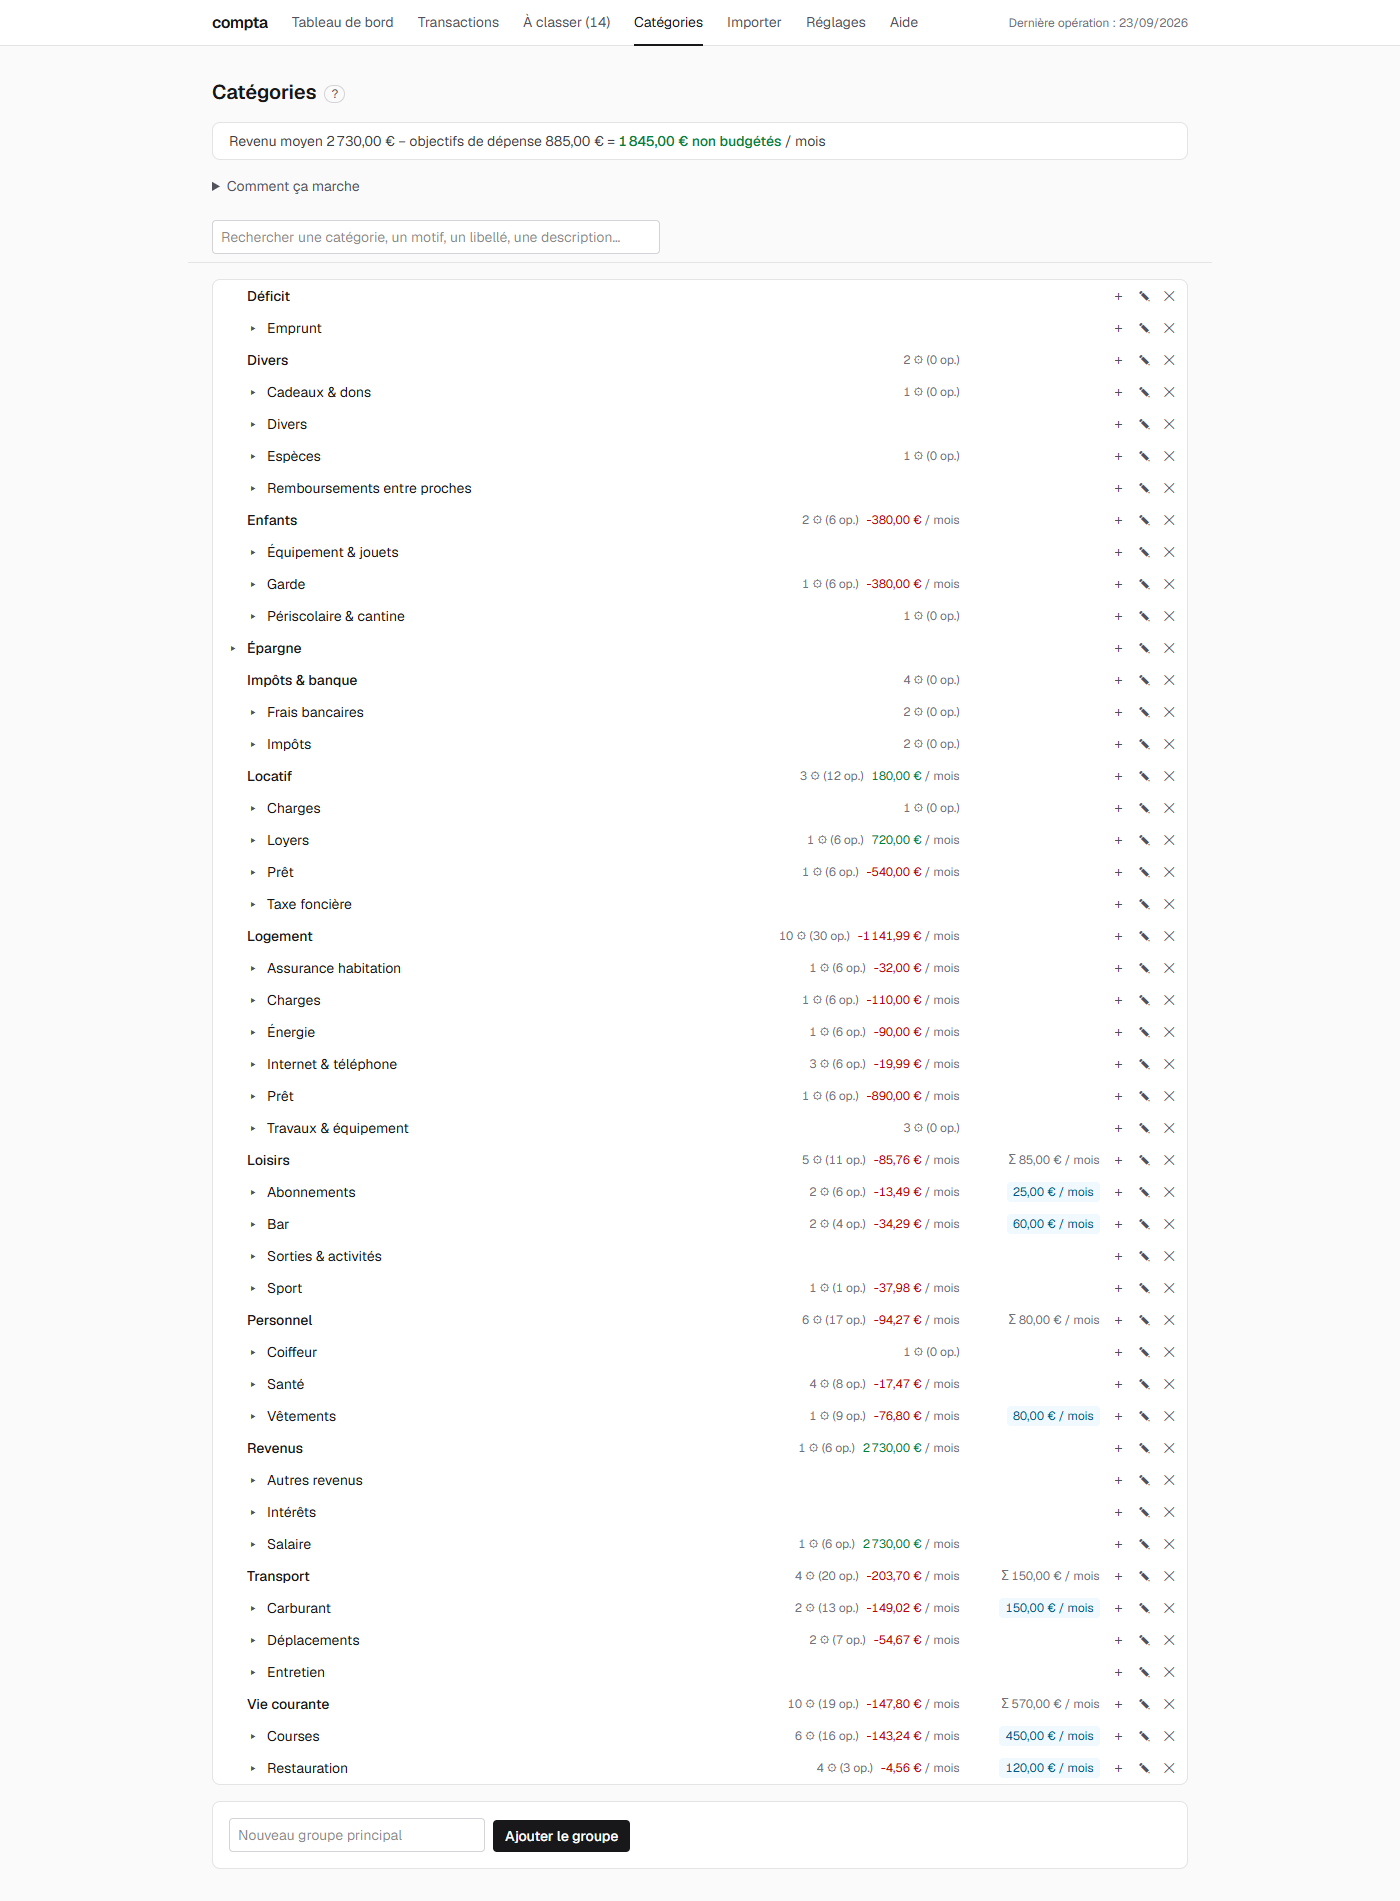
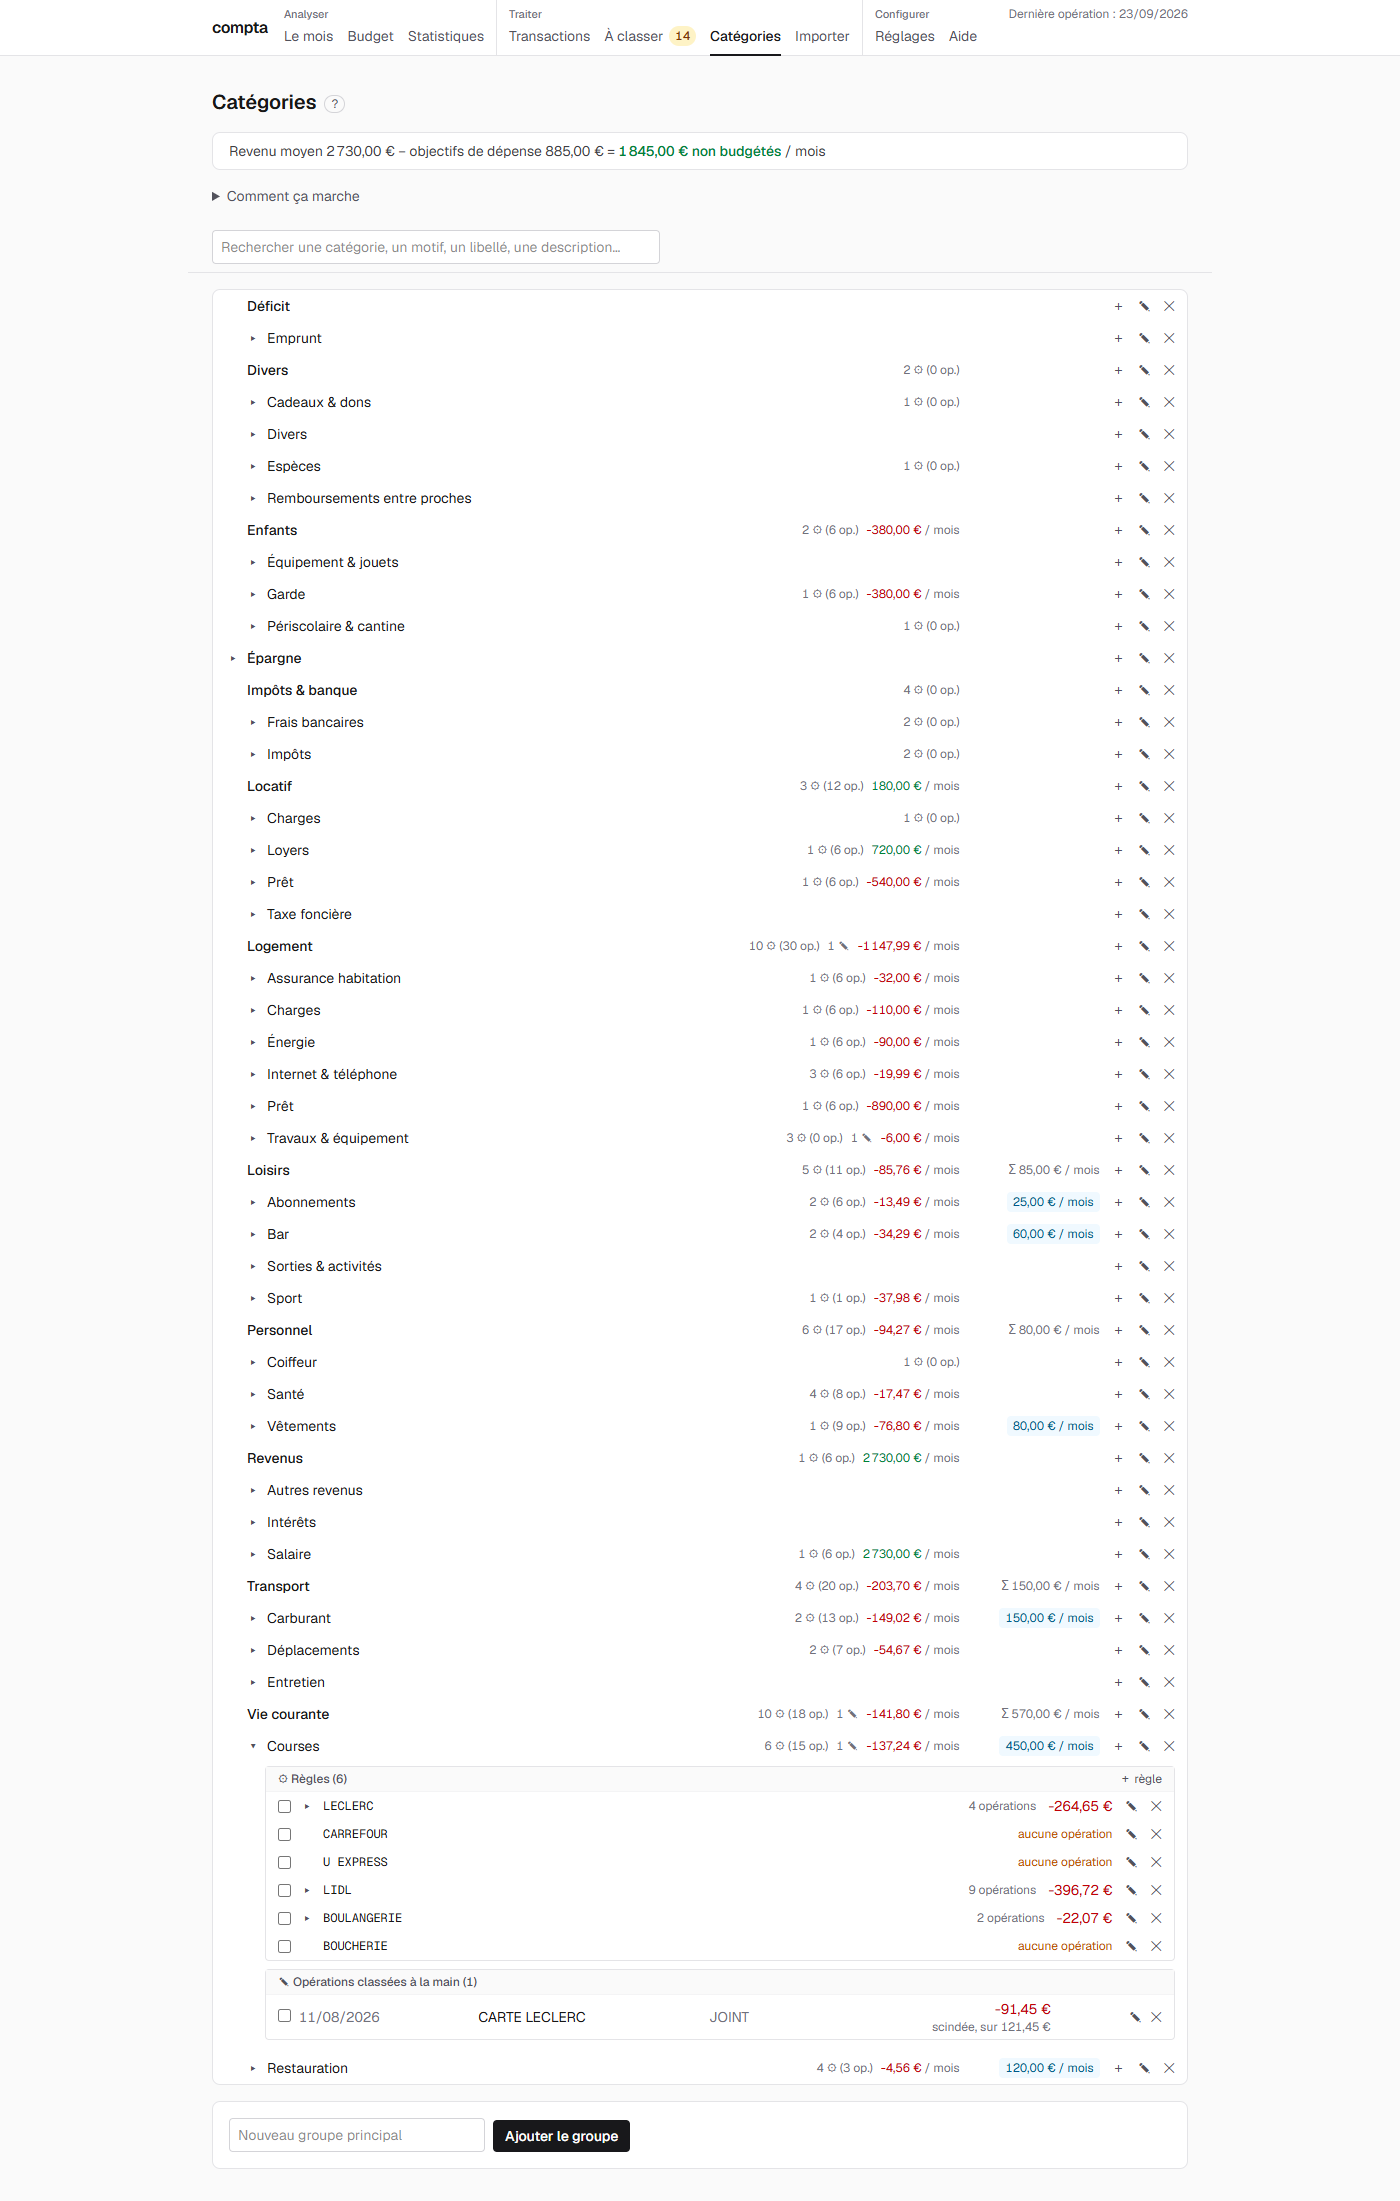
docs: retake guide screenshots and add Statistiques

diff --git a/backlog/tech/retake-screenshots-and-ui-pass.md b/backlog/tech/retake-screenshots-and-ui-pass.md
@@ -2,19 +2,19 @@
 
 ## Context
 
-Three sessions of UI changes on 2026-11-02 were checked by lint, vitest and `next build` only, never rendered: the dashboard lost its « Moyennes mensuelles » section (new `/statistiques` page), Transactions gained an account select, « À classer » gained a « Conflit de règles » group (`RuleConflicts.tsx`) and Catégories reads `?q=` and shows a conflict warning banner. `docs/img/dashboard.png`, `transactions.png` and `a-classer.png` still show the old pages, and the guide has no screenshot for Statistiques.
+Three sessions of UI changes on 2026-11-02 were checked by lint, vitest and `next build` only, never rendered: the dashboard lost its « Moyennes mensuelles » section (new `/statistiques` page), Transactions gained an account select, « À classer » gained a « Conflit de règles » group (`RuleConflicts.tsx`) and Catégories reads `?q=` and shows a conflict warning banner. The guide screenshots were all retaken on 2026-11-05 (including the new `statistiques.png`); what is left is the browser check of the conflict features and one open question, below.
 
 ## To do / to investigate
 
 1. Headless-Edge pass on the demo DB (see the Dev Workflow and the memory note on UI checks): `/statistiques` (month select), `/transactions` (account select + export link), « À classer » with a conflict (add a second rule on a demo label with another category), the `?q=` link into Catégories, the warning banner after saving a conflicting rule.
-2. Retake `transactions.png`, `a-classer.png`, `categories.png`, `import.png` and `settings.png` from the demo data (`dashboard.png` was done on 2026-11-05, see Progress); add `statistiques.png` (route `app/aide/img/[name]/route.ts`) and reference it in `docs/guide.md`.
-3. Open question: the Transactions page shows a conflict warning in the 4 s green flash; consider keeping it visible until dismissed.
+2. Open question: the Transactions page shows a conflict warning in the 4 s green flash; consider keeping it visible until dismissed.
 
 ## Progress
 
 - 2026-11-02: the split feature (« Scinder » in the Transactions row editor, « Courses + Maison » in the category cell, « scindée, sur N € » in the Catégories manual list) changes `transactions.png` and `categories.png` visibly: retake them from the demo data once a split is set on a demo operation.
 - 2026-11-02: item written at the end of the session that shipped the three changes.
-- 2026-11-02: the account-scoped rules session ran a headless-Edge pass on the demo DB for its own change only: the account select in the Catégories rule editor (add and inline edit, `RuleRow` badge), the Transactions rule-mode editor and the « À classer » group editor all render and work, and the Transactions match count and the « À classer » preview line follow the chosen account (14 checks, scratch scripts not kept). Still to do: the three points above, and the new account select on the Catégories and « À classer » screenshots.
+- 2026-11-02: the account-scoped rules session ran a headless-Edge pass on the demo DB for its own change only: the account select in the Catégories rule editor (add and inline edit, `RuleRow` badge), the Transactions rule-mode editor and the « À classer » group editor all render and work, and the Transactions match count and the « À classer » preview line follow the chosen account (14 checks, scratch scripts not kept). The screenshots part was done on 2026-11-05 (see below).
 - 2026-11-02: the account colours session (colour dot before the account code, colour swatches in Réglages « Comptes ») did not retake any screenshot. `docs/img/settings.png`, `transactions.png`, `a-classer.png` and `dashboard.png` (expanded tree leaf) should be retaken from the demo data (`data/accounts.csv` sets `slate` on JOINT, the other accounts take their default colour by position).
-- 2026-11-05: the shared month/account filter session retook `dashboard.png`, `budget.png`, `transactions.png` and `a-classer.png` from the demo DB (new filter bar; the menu is the new one) and checked the filters in headless Edge (sharing across pages, « Tous les mois », deep link, account filter on « À classer »). Still to retake: `categories.png`, `import.png`, `settings.png` (old menu); `statistiques.png` is still missing.
-- 2026-11-05: the navigation session (menu in three groups with a count badge, « Tableau de bord » renamed « Le mois », new Budget page, tree always open) retook `docs/img/dashboard.png` and added `docs/img/budget.png` from the demo DB, and checked `/`, `/budget` and the old `?month=all` URL in headless Edge. Every other screenshot (`transactions`, `a-classer`, `categories`, `import`, `settings`) still shows the old menu at the top, so the point 2 retake now covers all of them; `statistiques.png` is still missing.
+- 2026-11-05: the navigation session (menu in three groups with a count badge, « Tableau de bord » renamed « Le mois », new Budget page, tree always open) retook `docs/img/dashboard.png` and added `docs/img/budget.png` from the demo DB, and checked `/`, `/budget` and the old `?month=all` URL in headless Edge. Every other screenshot (`transactions`, `a-classer`, `categories`, `import`, `settings`) still showed the old menu at the top, so the point 2 retake covered all of them; `statistiques.png` is still missing.
+- 2026-11-05: the shared month/account filter session retook `dashboard.png`, `budget.png`, `transactions.png` and `a-classer.png` from the demo DB (new filter bar; the menu is the new one) and checked the filters in headless Edge, on `next dev` and on `next build` + `next start` (sharing across pages, « Tous les mois », deep link, account filter on « À classer »). Still to retake: `categories.png`, `import.png`, `settings.png` (old menu); `statistiques.png` is still missing.
+- 2026-11-05: retook `categories.png` (Courses expanded, with a split operation set on the scratch demo DB), `import.png`, `settings.png` and added `statistiques.png` (referenced in `docs/guide.md`), all from the demo DB in headless Edge on `next dev`. All guide screenshots now show the new menu. Left of point 1: the « Conflit de règles » group in « À classer », the `?q=` link into Catégories and the conflict banner after saving a rule were not re-checked; the open question (point 2 above) is still open.

diff --git a/docs/guide.md b/docs/guide.md
@@ -51,6 +51,8 @@ La page « Budget » compare, pour le mois choisi (liste déroulante, « Dernier
 
 ## Statistiques
 
+![La page Statistiques](img/statistiques.png)
+
 La page « Statistiques » regroupe les moyennes mensuelles. En haut à droite, la liste déroulante choisit le mois comparé à la moyenne ; la case « Tous les mois » masque les écarts.
 
 **Moyennes mensuelles** : le mois moyen de chaque catégorie sur les 3, 6, 12 derniers mois complets ou « tout ». Le mois en cours est toujours exclu, car il se remplit encore, de même que les mois « partiels » : un mois est partiel tant qu'un compte courant importé n'avait pas démarré (sa date de départ, sinon sa première opération, tombe plus de 4 jours après l'ouverture du mois par le salaire). Ses totaux manquent des flux de ce compte, ils ne sont pas comparables ; ils restent comptés dans « Tous les mois ». La fenêtre peut donc compter moins de mois que demandé, et elle grandit à chaque nouveau mois complet. La colonne « Moyenne / mois » est signée (revenus moins dépenses), « Écart » compare le mois affiché à la moyenne, « Objectif » rappelle le plafond. Seule la cellule « Objectif » d'une catégorie qui a son propre objectif prend une couleur. Le bloc « Comptes d'épargne » donne, par compte, ce qui a été mis de côté par mois.
